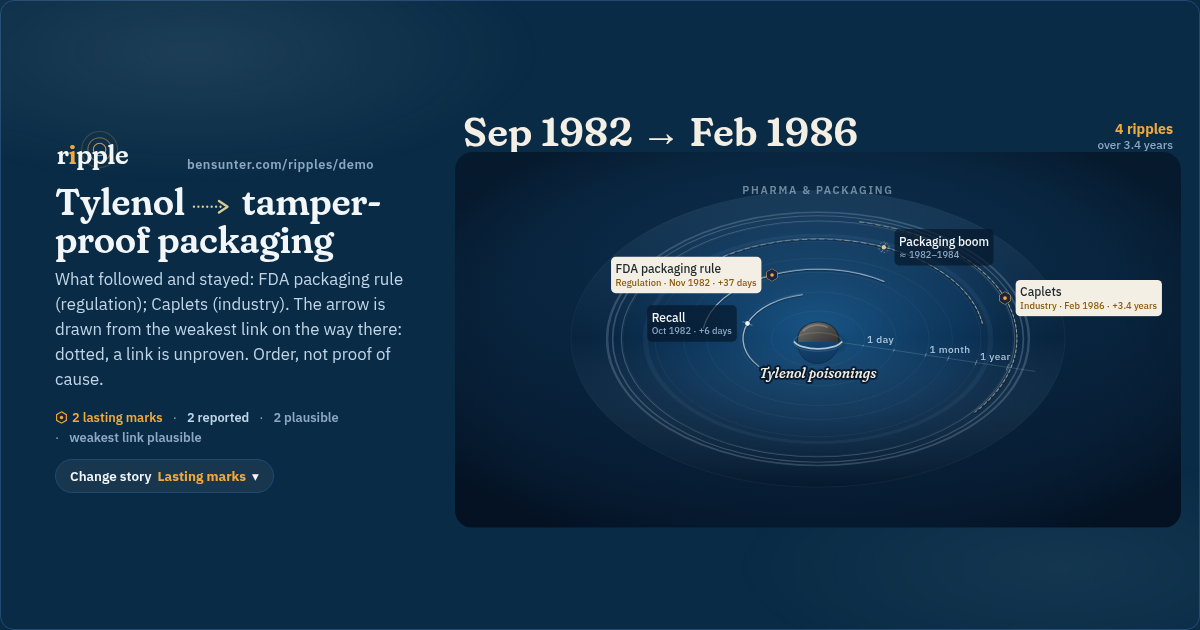
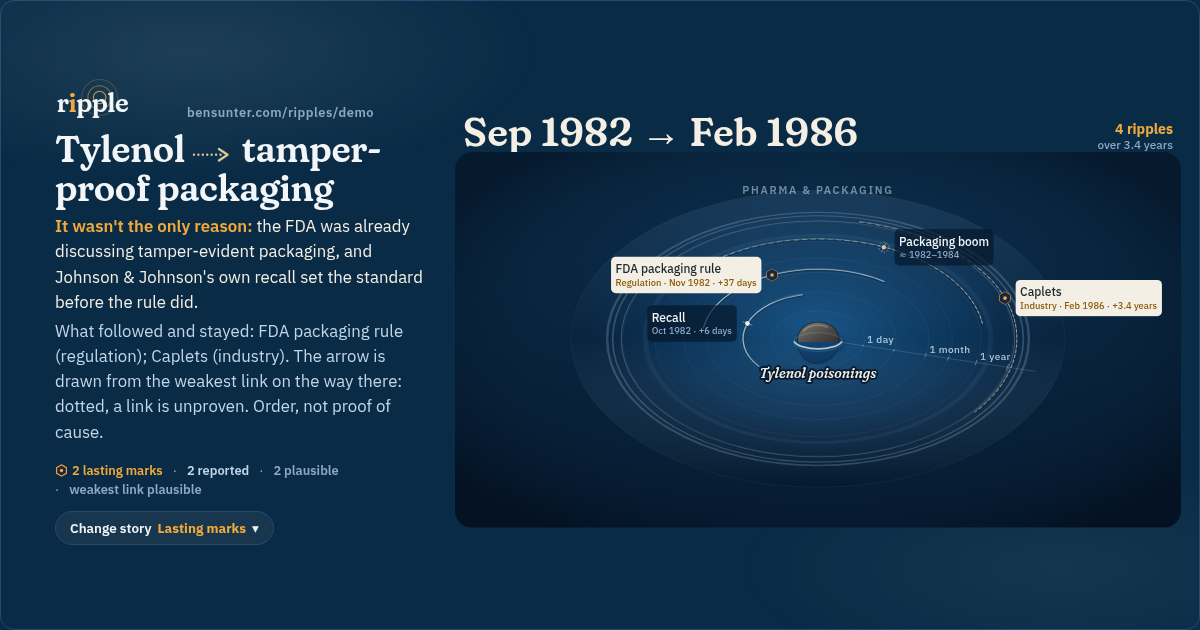
Ripple: the phone's first screen, the statutes themselves, and 'It wasn't the only reason'
- A phone sees the pond at 145 px instead of 290: the tally and the story chooser move under the pond beside the controls, the brand drops its tagline, the subtitle shows two lines until tapped; opening the chooser scrolls it into view. A desktop is unchanged.
- Twenty-two US law steps link to the statute on govinfo (Statutes at Large page or public-law link), each confirmed against the PDF it resolves to; the statute outranks the encyclopedia article in the sources pass.
- One editorial sentence per story (79 chains, 11 maps) in demo/context.json, shown under the title as 'It wasn't the only reason:' and carried in the share text.
- Docs: final_three_v1.md, the statute note in sources_pass_v1.md, the status row. Share cards and the standalone build regenerate alongside.

Claude-Session: https://claude.ai/code/session_01HRrpJvBXGVRP4TDUAuNZvt

Changed region(s): [[0.0308, 0.1206, 0.37, 0.7841], [0.0617, 0.8143, 0.2158, 0.8746]]

diff --git a/ripples/demo/index.html b/ripples/demo/index.html
@@ -87,6 +87,10 @@ body.card .brand .tag{display:none}body.card .brand::after{content:"bensunter.co
 h1{font:600 clamp(1.7rem,4.4vw,2.9rem)/1.04 var(--display);letter-spacing:-.012em;margin:.6rem 0 .45rem;text-wrap:balance}
 h1 em{font-style:italic;font-weight:500;color:var(--shallow-2)}
 .sub{color:var(--ink-2);max-width:62ch;margin:0}
+.sub .also{display:block;color:var(--paper);margin-bottom:4px}.sub .also b{font-weight:600;color:var(--marigold)}
+.sub.clamp{display:-webkit-box;-webkit-line-clamp:2;-webkit-box-orient:vertical;overflow:hidden;cursor:pointer}.sub.clamp .also{display:inline;margin:0}.sub.clamp .also::after{content:" "}
+.sub[aria-expanded="true"]{cursor:pointer}
+.pondbox .bar{margin:4px 8px 0}.pondbox .chooser{margin:8px 8px 0}
 .picker{display:flex;flex-wrap:wrap;gap:7px;margin:10px 0 2px;max-height:168px;overflow-y:auto;scrollbar-width:thin;padding-bottom:4px;
   -webkit-mask-image:linear-gradient(90deg,#000 92%,transparent);mask-image:linear-gradient(90deg,#000 92%,transparent)}
 .picker::-webkit-scrollbar{display:none}
@@ -328,8 +332,8 @@ body.reel header{max-width:760px;padding-top:22px}
 @media (min-width:1500px){.wrap{max-width:1560px}.feed{max-width:620px}}
 @media (max-width:860px){.wrap{grid-template-columns:1fr}.pondbox{position:relative;top:0}.feed{position:static;max-height:none;overflow:visible}}
 @media (max-width:560px){
-  header{padding:14px 12px 2px}.brand{font-size:.68rem}
-  h1{font-size:1.35rem;margin:.3rem 0 .25rem}.sub{font-size:.88rem;line-height:1.35}
+  header{padding:10px 12px 0}.brand{font-size:.68rem}.brand .tag{display:none}.brand .wm{width:92px;height:28px}
+  h1{font-size:1.35rem;margin:.2rem 0 .2rem}.sub{font-size:.84rem;line-height:1.35}.wrap{padding-top:2px}.clock{padding-top:0}
   .tally{margin-top:6px}.tally span{font-size:.76rem;padding:2px 8px}
   .tabs{margin-top:8px;overflow-x:auto;scrollbar-width:none}.tab{padding:6px 7px 7px;font-size:.8rem;gap:5px}.tab svg{width:14px;height:14px}.tabnote{font-size:.74rem;margin:6px 0 0}
   .picker{margin:6px 0 0}.chip{padding:5px 10px;font-size:.82rem}
@@ -1454,9 +1458,9 @@ function setStep(on) {
 
 async function loadAll() {
   const j = u => fetch(u).then(r => r.ok ? r.json() : null).catch(() => null);
-  const [disc, chains, acts, sources, ...maps] = await Promise.all([j("/ripples/demo/discovered.json"), j("/ripples/docs/results/chain_check_v1.json"),
-    j("/ripples/docs/results/bill_act_v1.json"), j("/ripples/demo/sources.json"), ...Object.keys(MAPS).map(s => j(`/ripples/maps/out/${s}.json`))]);
-  DATA.disc = disc; DATA.chains = chains ? chains.chains : []; DATA.acts = acts; DATA.sources = sources || {}; DATA.run = chains && chains.run; DATA.sha = chains && chains.checker_sha;
+  const [disc, chains, acts, sources, context, ...maps] = await Promise.all([j("/ripples/demo/discovered.json"), j("/ripples/docs/results/chain_check_v1.json"),
+    j("/ripples/docs/results/bill_act_v1.json"), j("/ripples/demo/sources.json"), j("/ripples/demo/context.json"), ...Object.keys(MAPS).map(s => j(`/ripples/maps/out/${s}.json`))]);
+  DATA.disc = disc; DATA.chains = chains ? chains.chains : []; DATA.acts = acts; DATA.sources = sources || {}; DATA.context = context || {}; DATA.run = chains && chains.run; DATA.sha = chains && chains.checker_sha;
   Object.keys(MAPS).forEach((s, i) => { if (maps[i]) DATA.maps[s] = maps[i]; });
 }
 function tabOf(kind, slug) {
@@ -1543,7 +1547,9 @@ function show(kind, slug, autoplay = true) {
   $("#h1").innerHTML = esc(titleText).replace(/\s*→\s*/, ` <span class="arw l-${weak}" title="The weakest link on the way to the mark is ${LVL[weak].toLowerCase()}"><svg viewBox="0 0 44 16" aria-hidden="true"><line x1="2" y1="8" x2="32" y2="8"/><path d="M28 2l9 6-9 6"/></svg></span> `);
   const markLine = marks.length ? `What followed and stayed: ${marks.slice(0, 3).map(x => `${x.label} (${x.mark.toLowerCase()})`).join("; ")}${marks.length > 3 ? `; and ${marks.length - 3} more` : ""}. The arrow is drawn from the weakest link on the way there: ${story.weak === "measured" ? "solid, every link measured" : story.weak === "timed" ? "solid, the links timed" : story.weak === "reported" ? "dashed, a source makes a link" : "dotted, a link is unproven"}. Order, not proof of cause.`
     : "A big splash, no lasting mark yet: what changed so far is attention and money, not a law, an institution, jobs or health.";
-  $("#sub").textContent = kind === "acts" ? `Named in the passage of ${story.items.length} ${story.items.length === 1 ? "law" : "laws"}${story.items.length === 1 ? (marks.length ? ", as a reason given for the bill" : ", in passing") : `, ${marks.length} of them as a reason given for the bill`}. A citation shows the work was in the room, not that it caused the law.` : markLine;  // one line; the story's own paragraph is in the first card
+  const also = kind === "acts" ? null : (DATA.context || {})[`${kind}:${slug}`];  // the other things going on: one editorial sentence, so the title never reads as the whole cause
+  const subEl = $("#sub"); subEl.classList.toggle("clamp", window.innerWidth <= 560); subEl.setAttribute("aria-expanded", "false");
+  subEl.innerHTML = (also ? `<span class="also"><b>It wasn't the only reason:</b> ${esc(also)}</span> ` : "") + esc(kind === "acts" ? `Named in the passage of ${story.items.length} ${story.items.length === 1 ? "law" : "laws"}${story.items.length === 1 ? (marks.length ? ", as a reason given for the bill" : ", in passing") : `, ${marks.length} of them as a reason given for the bill`}. A citation shows the work was in the room, not that it caused the law.` : markLine);  // one line; the story's own paragraph is in the first card
   const tally = {}; story.items.forEach(x => tally[x.lv] = (tally[x.lv] || 0) + 1);
   $("#tally").innerHTML = (kind === "acts" ? `<span class="markt">${HEX}${marks.length} cited as a reason</span>` : marks.length ? `<span class="markt">${HEX}${marks.length} lasting mark${marks.length === 1 ? "" : "s"}</span>` : `<span class="nomark">No lasting mark yet</span>`) +
     ["measured", "timed", "reported", "plausible", "busted"].filter(k => tally[k]).map(k => `<span class="l-${k}">${tally[k]} ${LVL[k].toLowerCase()}</span>`).join("") + (kind === "acts" ? "" : `<span class="weak">weakest link ${LVL[story.weak].toLowerCase()}</span>`);
@@ -1570,8 +1576,16 @@ function next() {
 
 (async () => {
   await loadAll();
+  const phoneLayout = () => {  // a phone: the pond comes first; the tally and the story chooser sit under it with the controls
+    const bar = $(".bar"), ch = $("#chooser"), leg = $(".legend"); if (!bar || !ch || !leg) return;
+    const ph = window.innerWidth <= 560, inHead = bar.parentElement.tagName === "HEADER";
+    if (ph && inHead) { leg.after(bar); bar.after(ch); } else if (!ph && !inHead) { $("#sub").after(bar); bar.after(ch); }
+    const sub = $("#sub"); if (sub) { if (!ph) { sub.classList.remove("clamp"); sub.removeAttribute("aria-expanded"); } else if (!sub.hasAttribute("aria-expanded")) { sub.classList.add("clamp"); sub.setAttribute("aria-expanded", "false"); } }
+  };
+  phoneLayout(); window.addEventListener("resize", phoneLayout);
+  $("#sub").addEventListener("click", () => { const sub = $("#sub"); if (!sub.hasAttribute("aria-expanded")) return; const open = sub.classList.toggle("clamp"); sub.setAttribute("aria-expanded", open ? "false" : "true"); });  // a tap reads the whole subtitle
   const chooser = $("#chooser"), cbtn = $("#chooserbtn");
-  const setChooser = open => { chooser.hidden = !open; cbtn.setAttribute("aria-expanded", open); };
+  const setChooser = open => { chooser.hidden = !open; cbtn.setAttribute("aria-expanded", open); if (open && window.innerWidth <= 560) requestAnimationFrame(() => cbtn.scrollIntoView({block:"start", behavior:"smooth"})); };  // on a phone the chooser lives under the pond, so opening it brings it up
   cbtn.onclick = () => setChooser(chooser.hidden);
   document.querySelectorAll(".known .chip").forEach(b => b.onclick = () => show(b.dataset.kind, b.dataset.slug));
   $("#search").oninput = renderPicker;

diff --git a/ripples/demo/s/america-and-alcohol/index.html b/ripples/demo/s/america-and-alcohol/index.html
@@ -1,8 +1,8 @@
 <!doctype html>
 <html lang="en"><head><meta charset="utf-8"><title>Ripple: Prohibition → a century of American drinking</title>
-<meta name="description" content="What followed and stayed: Repeal (law); AA founded (institution); NIAAA created (institution); and 1 more. The arrow is drawn from the weakest link on the way there: dashed, a source makes a link. Order, not proof of cause.">
+<meta name="description" content="It wasn't the only reason: the Depression and the need for tax revenue drove repeal; medicine, the habits of a dry generation and later the drunk-driving movement shaped the century that followed. What followed and stayed: Repeal (law); AA founded (institution); NIAAA created (institution); and 1 more. The arrow is drawn from the weakest link on the way there: dashed, a source makes a link. Order, not proof of cause.">
 <meta property="og:type" content="website"><meta property="og:site_name" content="Ripple">
-<meta property="og:title" content="Ripple: Prohibition → a century of American drinking"><meta property="og:description" content="What followed and stayed: Repeal (law); AA founded (institution); NIAAA created (institution); and 1 more. The arrow is drawn from the weakest link on the way there: dashed, a source makes a link. Order, not proof of cause.">
+<meta property="og:title" content="Ripple: Prohibition → a century of American drinking"><meta property="og:description" content="It wasn't the only reason: the Depression and the need for tax revenue drove repeal; medicine, the habits of a dry generation and later the drunk-driving movement shaped the century that followed. What followed and stayed: Repeal (law); AA founded (institution); NIAAA created (institution); and 1 more. The arrow is drawn from the weakest link on the way there: dashed, a source makes a link. Order, not proof of cause.">
 <meta property="og:url" content="https://bensunter.com/ripples/demo/s/america-and-alcohol/">
 <meta property="og:image" content="https://bensunter.com/ripples/demo/cards/america-and-alcohol.png"><meta property="og:image:width" content="1200"><meta property="og:image:height" content="630">
 <meta name="twitter:card" content="summary_large_image"><meta name="twitter:title" content="Ripple: Prohibition → a century of American drinking"><meta name="twitter:image" content="https://bensunter.com/ripples/demo/cards/america-and-alcohol.png">

diff --git a/ripples/demo/s/quincy-orphan-drug/index.html b/ripples/demo/s/quincy-orphan-drug/index.html
@@ -1,8 +1,8 @@
 <!doctype html>
 <html lang="en"><head><meta charset="utf-8"><title>Ripple: Quincy, M.E. → the Orphan Drug Act</title>
-<meta name="description" content="What followed and stayed: Orphan Drug Act (law); Orphan drugs approved (public health). The arrow is drawn from the weakest link on the way there: dashed, a source makes a link. Order, not proof of cause.">
+<meta name="description" content="It wasn't the only reason: Abbey Meyers and the rare-disease families had been organizing, Henry Waxman's hearings were already scheduled, and the bill had sponsors before the episode aired. What followed and stayed: Orphan Drug Act (law); Orphan drugs approved (public health). The arrow is drawn from the weakest link on the way there: dashed, a source makes a link. Order, not proof of cause.">
 <meta property="og:type" content="website"><meta property="og:site_name" content="Ripple">
-<meta property="og:title" content="Ripple: Quincy, M.E. → the Orphan Drug Act"><meta property="og:description" content="What followed and stayed: Orphan Drug Act (law); Orphan drugs approved (public health). The arrow is drawn from the weakest link on the way there: dashed, a source makes a link. Order, not proof of cause.">
+<meta property="og:title" content="Ripple: Quincy, M.E. → the Orphan Drug Act"><meta property="og:description" content="It wasn't the only reason: Abbey Meyers and the rare-disease families had been organizing, Henry Waxman's hearings were already scheduled, and the bill had sponsors before the episode aired. What followed and stayed: Orphan Drug Act (law); Orphan drugs approved (public health). The arrow is drawn from the weakest link on the way there: dashed, a source makes a link. Order, not proof of cause.">
 <meta property="og:url" content="https://bensunter.com/ripples/demo/s/quincy-orphan-drug/">
 <meta property="og:image" content="https://bensunter.com/ripples/demo/cards/quincy-orphan-drug.png"><meta property="og:image:width" content="1200"><meta property="og:image:height" content="630">
 <meta name="twitter:card" content="summary_large_image"><meta name="twitter:title" content="Ripple: Quincy, M.E. → the Orphan Drug Act"><meta name="twitter:image" content="https://bensunter.com/ripples/demo/cards/quincy-orphan-drug.png">

diff --git a/ripples/demo/s/broad-street-sanitation/index.html b/ripples/demo/s/broad-street-sanitation/index.html
@@ -1,8 +1,8 @@
 <!doctype html>
 <html lang="en"><head><meta charset="utf-8"><title>Ripple: A water pump → modern sewers</title>
-<meta name="description" content="What followed and stayed: Sewers built (infrastructure); Life expectancy (public health). The arrow is drawn from the weakest link on the way there: dotted, a link is unproven. Order, not proof of cause.">
+<meta name="description" content="It wasn't the only reason: the Great Stink of 1858, Bazalgette's engineering, Chadwick's sanitary movement and a Parliament that could smell the Thames all pushed London toward sewers. What followed and stayed: Sewers built (infrastructure); Life expectancy (public health). The arrow is drawn from the weakest link on the way there: dotted, a link is unproven. Order, not proof of cause.">
 <meta property="og:type" content="website"><meta property="og:site_name" content="Ripple">
-<meta property="og:title" content="Ripple: A water pump → modern sewers"><meta property="og:description" content="What followed and stayed: Sewers built (infrastructure); Life expectancy (public health). The arrow is drawn from the weakest link on the way there: dotted, a link is unproven. Order, not proof of cause.">
+<meta property="og:title" content="Ripple: A water pump → modern sewers"><meta property="og:description" content="It wasn't the only reason: the Great Stink of 1858, Bazalgette's engineering, Chadwick's sanitary movement and a Parliament that could smell the Thames all pushed London toward sewers. What followed and stayed: Sewers built (infrastructure); Life expectancy (public health). The arrow is drawn from the weakest link on the way there: dotted, a link is unproven. Order, not proof of cause.">
 <meta property="og:url" content="https://bensunter.com/ripples/demo/s/broad-street-sanitation/">
 <meta property="og:image" content="https://bensunter.com/ripples/demo/cards/broad-street-sanitation.png"><meta property="og:image:width" content="1200"><meta property="og:image:height" content="630">
 <meta name="twitter:card" content="summary_large_image"><meta name="twitter:title" content="Ripple: A water pump → modern sewers"><meta name="twitter:image" content="https://bensunter.com/ripples/demo/cards/broad-street-sanitation.png">

diff --git a/ripples/demo/s/silent-spring-ddt/index.html b/ripples/demo/s/silent-spring-ddt/index.html
@@ -1,8 +1,8 @@
 <!doctype html>
 <html lang="en"><head><meta charset="utf-8"><title>Ripple: Silent Spring → the DDT ban</title>
-<meta name="description" content="What followed and stayed: EPA created (institution); DDT banned (regulation). The arrow is drawn from the weakest link on the way there: dotted, a link is unproven. Order, not proof of cause.">
+<meta name="description" content="It wasn't the only reason: the environmental movement of the 1960s, the Santa Barbara spill and Earth Day, the Nixon administration's reorganization and a court case brought by the Environmental Defense Fund. What followed and stayed: EPA created (institution); DDT banned (regulation). The arrow is drawn from the weakest link on the way there: dotted, a link is unproven. Order, not proof of cause.">
 <meta property="og:type" content="website"><meta property="og:site_name" content="Ripple">
-<meta property="og:title" content="Ripple: Silent Spring → the DDT ban"><meta property="og:description" content="What followed and stayed: EPA created (institution); DDT banned (regulation). The arrow is drawn from the weakest link on the way there: dotted, a link is unproven. Order, not proof of cause.">
+<meta property="og:title" content="Ripple: Silent Spring → the DDT ban"><meta property="og:description" content="It wasn't the only reason: the environmental movement of the 1960s, the Santa Barbara spill and Earth Day, the Nixon administration's reorganization and a court case brought by the Environmental Defense Fund. What followed and stayed: EPA created (institution); DDT banned (regulation). The arrow is drawn from the weakest link on the way there: dotted, a link is unproven. Order, not proof of cause.">
 <meta property="og:url" content="https://bensunter.com/ripples/demo/s/silent-spring-ddt/">
 <meta property="og:image" content="https://bensunter.com/ripples/demo/cards/silent-spring-ddt.png"><meta property="og:image:width" content="1200"><meta property="og:image:height" content="630">
 <meta name="twitter:card" content="summary_large_image"><meta name="twitter:title" content="Ripple: Silent Spring → the DDT ban"><meta name="twitter:image" content="https://bensunter.com/ripples/demo/cards/silent-spring-ddt.png">

diff --git a/ripples/demo/s/daily-show-zadroga/index.html b/ripples/demo/s/daily-show-zadroga/index.html
@@ -1,8 +1,8 @@
 <!doctype html>
 <html lang="en"><head><meta charset="utf-8"><title>Ripple: The Daily Show → the Zadroga Act</title>
-<meta name="description" content="What followed and stayed: Zadroga Act (law); Fund made permanent (law). The arrow is drawn from the weakest link on the way there: dashed, a source makes a link. Order, not proof of cause.">
+<meta name="description" content="It wasn't the only reason: the responders' advocates, New York's congressional delegation and the firefighters' unions had pressed for the bill for years; the show arrived at the final vote. What followed and stayed: Zadroga Act (law); Fund made permanent (law). The arrow is drawn from the weakest link on the way there: dashed, a source makes a link. Order, not proof of cause.">
 <meta property="og:type" content="website"><meta property="og:site_name" content="Ripple">
-<meta property="og:title" content="Ripple: The Daily Show → the Zadroga Act"><meta property="og:description" content="What followed and stayed: Zadroga Act (law); Fund made permanent (law). The arrow is drawn from the weakest link on the way there: dashed, a source makes a link. Order, not proof of cause.">
+<meta property="og:title" content="Ripple: The Daily Show → the Zadroga Act"><meta property="og:description" content="It wasn't the only reason: the responders' advocates, New York's congressional delegation and the firefighters' unions had pressed for the bill for years; the show arrived at the final vote. What followed and stayed: Zadroga Act (law); Fund made permanent (law). The arrow is drawn from the weakest link on the way there: dashed, a source makes a link. Order, not proof of cause.">
 <meta property="og:url" content="https://bensunter.com/ripples/demo/s/daily-show-zadroga/">
 <meta property="og:image" content="https://bensunter.com/ripples/demo/cards/daily-show-zadroga.png"><meta property="og:image:width" content="1200"><meta property="og:image:height" content="630">
 <meta name="twitter:card" content="summary_large_image"><meta name="twitter:title" content="Ripple: The Daily Show → the Zadroga Act"><meta name="twitter:image" content="https://bensunter.com/ripples/demo/cards/daily-show-zadroga.png">

diff --git a/ripples/demo/s/manhunt-byron/index.html b/ripples/demo/s/manhunt-byron/index.html
@@ -1,8 +1,8 @@
 <!doctype html>
 <html lang="en"><head><meta charset="utf-8"><title>Ripple: Manhunt → game ratings in law</title>
-<meta name="description" content="What followed and stayed: Ratings in law (law); PEGI statutory (regulation). The arrow is drawn from the weakest link on the way there: dashed, a source makes a link. Order, not proof of cause.">
+<meta name="description" content="It wasn't the only reason: the Byron Review was commissioned for wider reasons, European ratings reform was under way, and a tabloid campaign after a murder did its own work. What followed and stayed: Ratings in law (law); PEGI statutory (regulation). The arrow is drawn from the weakest link on the way there: dashed, a source makes a link. Order, not proof of cause.">
 <meta property="og:type" content="website"><meta property="og:site_name" content="Ripple">
-<meta property="og:title" content="Ripple: Manhunt → game ratings in law"><meta property="og:description" content="What followed and stayed: Ratings in law (law); PEGI statutory (regulation). The arrow is drawn from the weakest link on the way there: dashed, a source makes a link. Order, not proof of cause.">
+<meta property="og:title" content="Ripple: Manhunt → game ratings in law"><meta property="og:description" content="It wasn't the only reason: the Byron Review was commissioned for wider reasons, European ratings reform was under way, and a tabloid campaign after a murder did its own work. What followed and stayed: Ratings in law (law); PEGI statutory (regulation). The arrow is drawn from the weakest link on the way there: dashed, a source makes a link. Order, not proof of cause.">
 <meta property="og:url" content="https://bensunter.com/ripples/demo/s/manhunt-byron/">
 <meta property="og:image" content="https://bensunter.com/ripples/demo/cards/manhunt-byron.png"><meta property="og:image:width" content="1200"><meta property="og:image:height" content="630">
 <meta name="twitter:card" content="summary_large_image"><meta name="twitter:title" content="Ripple: Manhunt → game ratings in law"><meta name="twitter:image" content="https://bensunter.com/ripples/demo/cards/manhunt-byron.png">

diff --git a/ripples/demo/s/cathy-come-home/index.html b/ripples/demo/s/cathy-come-home/index.html
@@ -1,8 +1,8 @@
 <!doctype html>
 <html lang="en"><head><meta charset="utf-8"><title>Ripple: Cathy Come Home → a duty to house</title>
-<meta name="description" content="What followed and stayed: Homeless Persons Act (law). The arrow is drawn from the weakest link on the way there: dotted, a link is unproven. Order, not proof of cause.">
+<meta name="description" content="It wasn't the only reason: Shelter was founded the same month for reasons of its own, the housing charities had been lobbying for a decade, and the 1977 Act came from a private member's bill eleven years later. What followed and stayed: Homeless Persons Act (law). The arrow is drawn from the weakest link on the way there: dotted, a link is unproven. Order, not proof of cause.">
 <meta property="og:type" content="website"><meta property="og:site_name" content="Ripple">
-<meta property="og:title" content="Ripple: Cathy Come Home → a duty to house"><meta property="og:description" content="What followed and stayed: Homeless Persons Act (law). The arrow is drawn from the weakest link on the way there: dotted, a link is unproven. Order, not proof of cause.">
+<meta property="og:title" content="Ripple: Cathy Come Home → a duty to house"><meta property="og:description" content="It wasn't the only reason: Shelter was founded the same month for reasons of its own, the housing charities had been lobbying for a decade, and the 1977 Act came from a private member's bill eleven years later. What followed and stayed: Homeless Persons Act (law). The arrow is drawn from the weakest link on the way there: dotted, a link is unproven. Order, not proof of cause.">
 <meta property="og:url" content="https://bensunter.com/ripples/demo/s/cathy-come-home/">
 <meta property="og:image" content="https://bensunter.com/ripples/demo/cards/cathy-come-home.png"><meta property="og:image:width" content="1200"><meta property="og:image:height" content="630">
 <meta name="twitter:card" content="summary_large_image"><meta name="twitter:title" content="Ripple: Cathy Come Home → a duty to house"><meta name="twitter:image" content="https://bensunter.com/ripples/demo/cards/cathy-come-home.png">

diff --git a/ripples/demo/s/tiger-king/index.html b/ripples/demo/s/tiger-king/index.html
@@ -1,8 +1,8 @@
 <!doctype html>
 <html lang="en"><head><meta charset="utf-8"><title>Ripple: Tiger King → the Big Cat Act</title>
-<meta name="description" content="What followed and stayed: Big Cat Act becomes law (law); License suspended (regulation). The arrow is drawn from the weakest link on the way there: dotted, a link is unproven. Order, not proof of cause.">
+<meta name="description" content="It wasn't the only reason: the lockdown audience and the Big Cat Public Safety Act, introduced in 2017 and campaigned for by welfare groups for years. What followed and stayed: Big Cat Act becomes law (law); License suspended (regulation). The arrow is drawn from the weakest link on the way there: dotted, a link is unproven. Order, not proof of cause.">
 <meta property="og:type" content="website"><meta property="og:site_name" content="Ripple">
-<meta property="og:title" content="Ripple: Tiger King → the Big Cat Act"><meta property="og:description" content="What followed and stayed: Big Cat Act becomes law (law); License suspended (regulation). The arrow is drawn from the weakest link on the way there: dotted, a link is unproven. Order, not proof of cause.">
+<meta property="og:title" content="Ripple: Tiger King → the Big Cat Act"><meta property="og:description" content="It wasn't the only reason: the lockdown audience and the Big Cat Public Safety Act, introduced in 2017 and campaigned for by welfare groups for years. What followed and stayed: Big Cat Act becomes law (law); License suspended (regulation). The arrow is drawn from the weakest link on the way there: dotted, a link is unproven. Order, not proof of cause.">
 <meta property="og:url" content="https://bensunter.com/ripples/demo/s/tiger-king/">
 <meta property="og:image" content="https://bensunter.com/ripples/demo/cards/tiger-king.png"><meta property="og:image:width" content="1200"><meta property="og:image:height" content="630">
 <meta name="twitter:card" content="summary_large_image"><meta name="twitter:title" content="Ripple: Tiger King → the Big Cat Act"><meta name="twitter:image" content="https://bensunter.com/ripples/demo/cards/tiger-king.png">

diff --git a/ripples/demo/s/tylenol/index.html b/ripples/demo/s/tylenol/index.html
@@ -1,8 +1,8 @@
 <!doctype html>
 <html lang="en"><head><meta charset="utf-8"><title>Ripple: Tylenol → tamper-proof packaging</title>
-<meta name="description" content="What followed and stayed: FDA packaging rule (regulation); Caplets (industry). The arrow is drawn from the weakest link on the way there: dotted, a link is unproven. Order, not proof of cause.">
+<meta name="description" content="It wasn't the only reason: the FDA was already discussing tamper-evident packaging, and Johnson &amp; Johnson's own recall set the standard before the rule did. What followed and stayed: FDA packaging rule (regulation); Caplets (industry). The arrow is drawn from the weakest link on the way there: dotted, a link is unproven. Order, not proof of cause.">
 <meta property="og:type" content="website"><meta property="og:site_name" content="Ripple">
-<meta property="og:title" content="Ripple: Tylenol → tamper-proof packaging"><meta property="og:description" content="What followed and stayed: FDA packaging rule (regulation); Caplets (industry). The arrow is drawn from the weakest link on the way there: dotted, a link is unproven. Order, not proof of cause.">
+<meta property="og:title" content="Ripple: Tylenol → tamper-proof packaging"><meta property="og:description" content="It wasn't the only reason: the FDA was already discussing tamper-evident packaging, and Johnson &amp; Johnson's own recall set the standard before the rule did. What followed and stayed: FDA packaging rule (regulation); Caplets (industry). The arrow is drawn from the weakest link on the way there: dotted, a link is unproven. Order, not proof of cause.">
 <meta property="og:url" content="https://bensunter.com/ripples/demo/s/tylenol/">
 <meta property="og:image" content="https://bensunter.com/ripples/demo/cards/tylenol.png"><meta property="og:image:width" content="1200"><meta property="og:image:height" content="630">
 <meta name="twitter:card" content="summary_large_image"><meta name="twitter:title" content="Ripple: Tylenol → tamper-proof packaging"><meta name="twitter:image" content="https://bensunter.com/ripples/demo/cards/tylenol.png">

diff --git a/ripples/demo/s/victim-1961/index.html b/ripples/demo/s/victim-1961/index.html
@@ -1,8 +1,8 @@
 <!doctype html>
 <html lang="en"><head><meta charset="utf-8"><title>Ripple: Victim (1961) → the Sexual Offences Act</title>
-<meta name="description" content="What followed and stayed: Sexual Offences Act 1967 (law). The arrow is drawn from the weakest link on the way there: dashed, a source makes a link. Order, not proof of cause.">
+<meta name="description" content="It wasn't the only reason: the Wolfenden Report of 1957 had already recommended decriminalization, and the Act of 1967 followed six more years of parliamentary campaigning. What followed and stayed: Sexual Offences Act 1967 (law). The arrow is drawn from the weakest link on the way there: dashed, a source makes a link. Order, not proof of cause.">
 <meta property="og:type" content="website"><meta property="og:site_name" content="Ripple">
-<meta property="og:title" content="Ripple: Victim (1961) → the Sexual Offences Act"><meta property="og:description" content="What followed and stayed: Sexual Offences Act 1967 (law). The arrow is drawn from the weakest link on the way there: dashed, a source makes a link. Order, not proof of cause.">
+<meta property="og:title" content="Ripple: Victim (1961) → the Sexual Offences Act"><meta property="og:description" content="It wasn't the only reason: the Wolfenden Report of 1957 had already recommended decriminalization, and the Act of 1967 followed six more years of parliamentary campaigning. What followed and stayed: Sexual Offences Act 1967 (law). The arrow is drawn from the weakest link on the way there: dashed, a source makes a link. Order, not proof of cause.">
 <meta property="og:url" content="https://bensunter.com/ripples/demo/s/victim-1961/">
 <meta property="og:image" content="https://bensunter.com/ripples/demo/cards/victim-1961.png"><meta property="og:image:width" content="1200"><meta property="og:image:height" content="630">
 <meta name="twitter:card" content="summary_large_image"><meta name="twitter:title" content="Ripple: Victim (1961) → the Sexual Offences Act"><meta name="twitter:image" content="https://bensunter.com/ripples/demo/cards/victim-1961.png">

diff --git a/ripples/demo/s/octopus-sentience/index.html b/ripples/demo/s/octopus-sentience/index.html
@@ -1,8 +1,8 @@
 <!doctype html>
 <html lang="en"><head><meta charset="utf-8"><title>Ripple: My Octopus Teacher → the Sentience Act</title>
-<meta name="description" content="What followed and stayed: Sentience Act 2022 (law). The arrow is drawn from the weakest link on the way there: dotted, a link is unproven. Order, not proof of cause.">
+<meta name="description" content="It wasn't the only reason: the UK was rewriting animal law after leaving the European Union, and the LSE review of cephalopod sentience was commissioned before the film's Oscar. What followed and stayed: Sentience Act 2022 (law). The arrow is drawn from the weakest link on the way there: dotted, a link is unproven. Order, not proof of cause.">
 <meta property="og:type" content="website"><meta property="og:site_name" content="Ripple">
-<meta property="og:title" content="Ripple: My Octopus Teacher → the Sentience Act"><meta property="og:description" content="What followed and stayed: Sentience Act 2022 (law). The arrow is drawn from the weakest link on the way there: dotted, a link is unproven. Order, not proof of cause.">
+<meta property="og:title" content="Ripple: My Octopus Teacher → the Sentience Act"><meta property="og:description" content="It wasn't the only reason: the UK was rewriting animal law after leaving the European Union, and the LSE review of cephalopod sentience was commissioned before the film's Oscar. What followed and stayed: Sentience Act 2022 (law). The arrow is drawn from the weakest link on the way there: dotted, a link is unproven. Order, not proof of cause.">
 <meta property="og:url" content="https://bensunter.com/ripples/demo/s/octopus-sentience/">
 <meta property="og:image" content="https://bensunter.com/ripples/demo/cards/octopus-sentience.png"><meta property="og:image:width" content="1200"><meta property="og:image:height" content="630">
 <meta name="twitter:card" content="summary_large_image"><meta name="twitter:title" content="Ripple: My Octopus Teacher → the Sentience Act"><meta name="twitter:image" content="https://bensunter.com/ripples/demo/cards/octopus-sentience.png">
